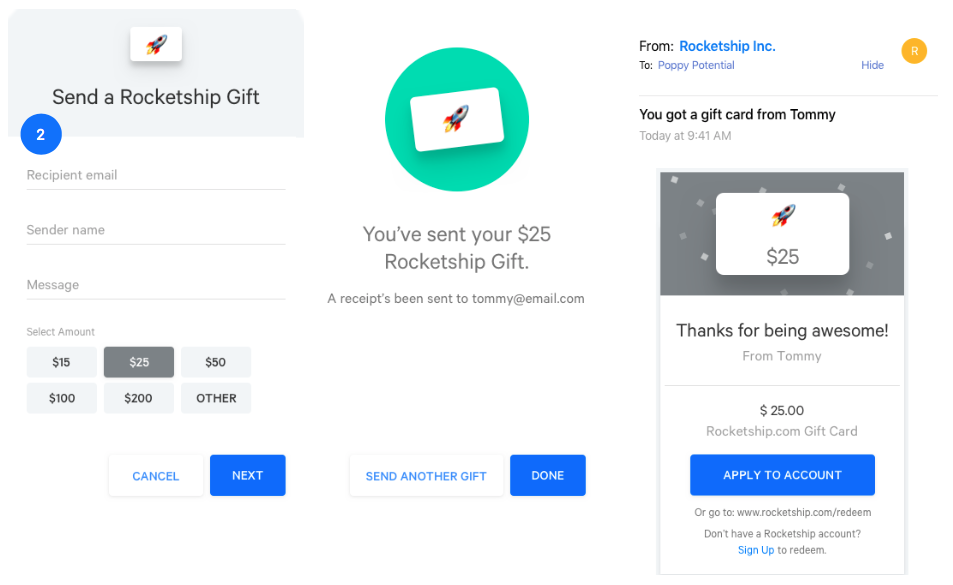
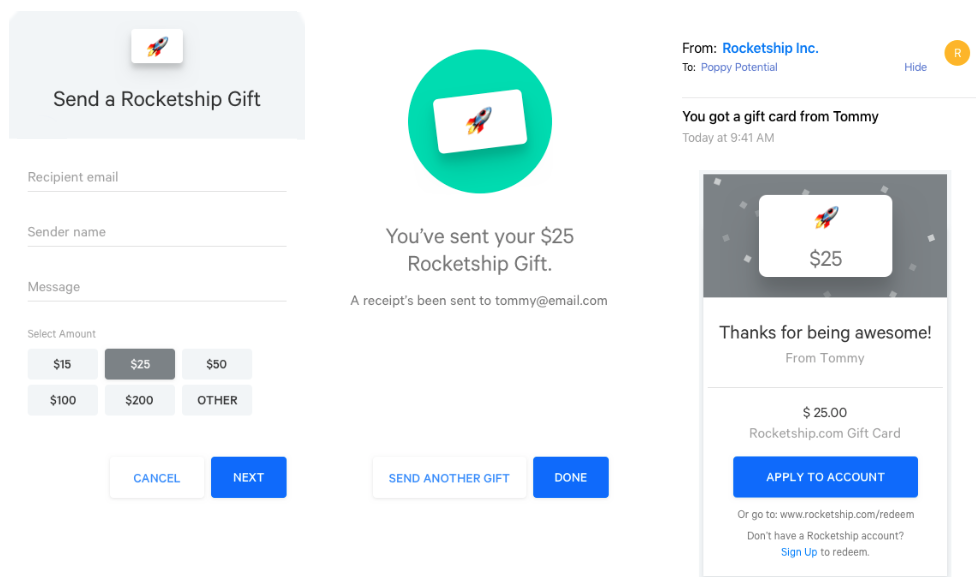
- added redemption-widget screenshot - resolved many merge conflicts

diff --git a/docs/quickstart/drop-in-gift-cards.md b/docs/quickstart/drop-in-gift-cards.md
@@ -28,6 +28,8 @@ The gift card is automatically delivered in a branded email to the recipient.
 ## Step 2: Redeeming Gift Cards
 This enables your customers to redeem gift cards to their account for later use.
 The gift email the recipient receives includes a button to redeem the gift card which links to your redemption page - the redemption link is set within your drop in gift card template.
+
+![Gift card purchase widget](assets/redemption-widget.png)
 This link should go to a new page on your site that includes the following snippet to load the redemption widget.
 ```html
 <div class="redemption-widget">
@@ -127,7 +129,7 @@ lightrail.generateShopperToken({shopperId: "customer-id-from-your-system"})
 ```
 Note, the redemption and account balance widgets must be on authenticated pages as they require a customer ID (the `shopperId`).
 You may decide if you'd like your customers to be signed in to purchase gift cards. 
-If you'd like to allow gift card purchase from an unauthenticated page simply generate a shopper token with `shopperId: null`.
+If you'd like to allow gift card purchase from an unauthenticated page simply generate a shopper token with `shopperId: ""`.
 
 ## Support
 Looking for an example? Check out our [sample app](https://github.com/Giftbit/stripe-integration-sample-webapp) which is a working example of the entire drop in gift card solution.
